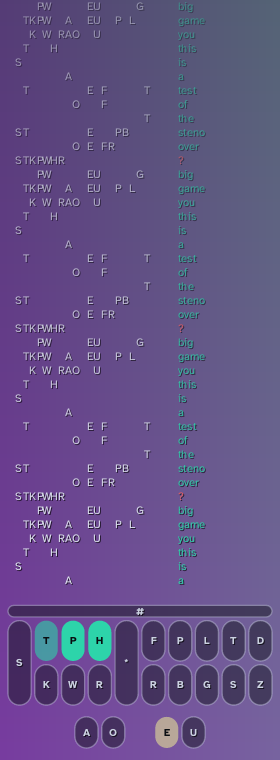
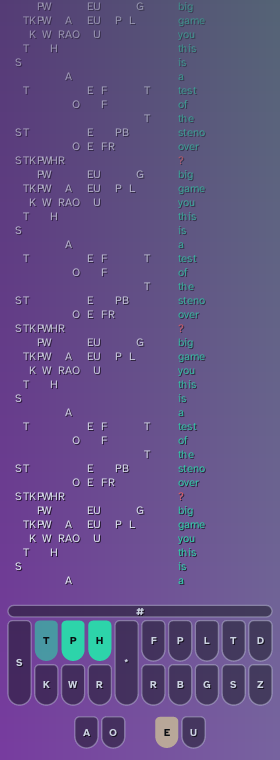
fix(overlay): pads are squarish on top, round at the bottom
Pad shapes take separate top and bottom radii: the top corners are softened
slightly (0.2x width), the bottom is fully round. The # bar stays a pill.

diff --git a/src/overlay/render.rs b/src/overlay/render.rs
@@ -23,6 +23,10 @@ const LABEL_PX: f32 = 13.0;
 const TAPE_PX: f32 = 14.0;
 /// Outline of an unlit key, logical px
 const OUTLINE: f32 = 1.4;
+/// Radius of a pad's top corners relative to its width. The bottom is fully round.
+const PAD_TOP_ROUND: f32 = 0.2;
+/// Slot of the `#` number bar
+const NUMBER_SLOT: usize = 22;
 /// Share of the tape width given to the steno columns; the translation gets the rest
 const PAPER_SHARE: f32 = 0.62;
 /// Oldest tape line's strength, so the tape fades out towards the top of the screen
@@ -116,11 +120,19 @@ impl Renderer {
             0
         };
 
-        // Pills: the radius is clamped to half the shorter side, so this is a full round end
+        // Steno pads: a squarish top with slightly softened corners, and a fully round
+        // bottom. The `#` bar is a plain pill. Radii are clamped to fit by `rounded_rect`.
         let key_shapes = keyboard.as_ref().map_or_else(Vec::new, |k| {
             k.keys
                 .iter()
-                .filter_map(|r| rounded_rect(*r, f32::MAX))
+                .enumerate()
+                .filter_map(|(slot, r)| {
+                    if slot == NUMBER_SLOT {
+                        rounded_rect(*r, f32::MAX, f32::MAX)
+                    } else {
+                        rounded_rect(*r, r.w * PAD_TOP_ROUND, f32::MAX)
+                    }
+                })
                 .collect()
         });
         let panel = (config.background > 0.0)
@@ -132,6 +144,7 @@ impl Renderer {
                         w: width,
                         h: height,
                     },
+                    0.0,
                     0.0,
                 )
             })
@@ -337,23 +350,26 @@ fn stroke(pixmap: &mut PixmapMut, path: &Path, color: [u8; 4], style: &Stroke) {
     pixmap.stroke_path(path, &paint(color), style, Transform::identity(), None);
 }
 
-/// A rectangle with circular corners (cubic approximation). A radius of half the shorter side
-/// or more makes a pill: straight sides with fully round ends.
-fn rounded_rect(r: Rect, radius: f32) -> Option<Path> {
+/// A rectangle whose top corners have radius `top_radius` and bottom corners `bottom_radius`
+/// (cubic approximation of quarter circles). Radii are clamped so they fit: half the width at
+/// most, and the two together within the height. A radius of half the width on both ends
+/// makes a pill.
+fn rounded_rect(r: Rect, top_radius: f32, bottom_radius: f32) -> Option<Path> {
     const K: f32 = 0.552_284_8; // control point distance for a quarter circle
-    let rad = radius.min(r.w / 2.0).min(r.h / 2.0);
-    let c = rad * (1.0 - K);
+    let rt = top_radius.min(r.w / 2.0).min(r.h / 2.0);
+    let rb = bottom_radius.min(r.w / 2.0).min(r.h - rt);
+    let (ct, cb) = (rt * (1.0 - K), rb * (1.0 - K));
     let (left, top, right, bottom) = (r.x, r.y, r.x + r.w, r.y + r.h);
     let mut pb = PathBuilder::new();
-    pb.move_to(left + rad, top);
-    pb.line_to(right - rad, top);
-    pb.cubic_to(right - c, top, right, top + c, right, top + rad);
-    pb.line_to(right, bottom - rad);
-    pb.cubic_to(right, bottom - c, right - c, bottom, right - rad, bottom);
-    pb.line_to(left + rad, bottom);
-    pb.cubic_to(left + c, bottom, left, bottom - c, left, bottom - rad);
-    pb.line_to(left, top + rad);
-    pb.cubic_to(left, top + c, left + c, top, left + rad, top);
+    pb.move_to(left + rt, top);
+    pb.line_to(right - rt, top);
+    pb.cubic_to(right - ct, top, right, top + ct, right, top + rt);
+    pb.line_to(right, bottom - rb);
+    pb.cubic_to(right, bottom - cb, right - cb, bottom, right - rb, bottom);
+    pb.line_to(left + rb, bottom);
+    pb.cubic_to(left + cb, bottom, left, bottom - cb, left, bottom - rb);
+    pb.line_to(left, top + rt);
+    pb.cubic_to(left, top + ct, left + ct, top, left + rt, top);
     pb.close();
     pb.finish()
 }
@@ -534,21 +550,37 @@ mod tests {
     }
 
     #[test]
-    fn keys_are_pills_with_round_ends() {
+    fn keys_are_pads_square_on_top_and_round_at_the_bottom() {
         let mut renderer = Renderer::new(&OverlayConfig::default(), 1, 900).unwrap();
         let (w, h) = renderer.size();
         let mut pixmap = Pixmap::new(w, h).unwrap();
         renderer.draw(&OverlaySnapshot::default(), &mut pixmap.as_mut());
-        // The corner of T-'s bounding box is empty (round end); its middle is not
         let t = renderer.keyboard.as_ref().unwrap().keys[1];
-        let corner = pixmap
-            .pixel((t.x + 1.0) as u32, (t.y + 1.0) as u32)
-            .unwrap();
-        let middle = pixmap
-            .pixel((t.x + 2.0) as u32, (t.y + t.h / 2.0) as u32)
-            .unwrap();
-        assert_eq!(corner.alpha(), 0, "square corner");
-        assert!(middle.alpha() > 0, "body of the pad");
+        let alpha_at = |dx: f32, y: f32| pixmap.pixel((t.x + dx) as u32, y as u32).unwrap().alpha();
+
+        // Just inside each corner of T-'s bounding box: the top is nearly square, so that
+        // spot is part of the pad; the bottom is fully round, so it is empty
+        let top_corner = alpha_at(2.0, t.y + 2.0);
+        let bottom_corner = alpha_at(2.0, t.bottom() - 3.0);
+        assert!(top_corner > 0, "top corner is only slightly rounded");
+        assert_eq!(bottom_corner, 0, "bottom is a round end");
+        assert!(alpha_at(2.0, t.y + t.h / 2.0) > 0, "body of the pad");
+    }
+
+    #[test]
+    fn the_pad_path_has_the_radii_asked_for() {
+        let r = Rect {
+            x: 0.0,
+            y: 0.0,
+            w: 20.0,
+            h: 40.0,
+        };
+        // A pill: both ends are half the width
+        let pill = rounded_rect(r, f32::MAX, f32::MAX).unwrap();
+        assert_eq!(pill.bounds().width(), 20.0);
+        // Radii that don't fit are clamped instead of producing a bad path
+        assert!(rounded_rect(r, 500.0, 500.0).is_some());
+        assert!(rounded_rect(r, 3.0, f32::MAX).is_some());
     }
 
     /// Writes a sample frame as a PPM over a backdrop, to look at the design:

diff --git a/docs/overlay-plan.md b/docs/overlay-plan.md
@@ -144,8 +144,9 @@ x-position and its letter is centred in that column. Steno lines still align.
 - No background by default (`background: 0.0`): only the keys and the text are drawn, so
   everything must read over any wallpaper. Text gets a soft drop shadow (light text only;
   dark text on a lit key doesn't, since the shadow would smudge it).
-- Keys are steno pads: tall pills (1.75× as tall as wide) with fully round ends. `S-` and
-  `*` are double height, `#` is a thin pill across the top, thumbs sit below. Unlit keys
+- Keys are steno pads, 1.75× as tall as wide: a squarish top with slightly softened corners
+  (radius 0.2× the width) and a fully round bottom. `S-` and `*` are double height, `#` is a
+  thin pill across the top, thumbs sit below. Unlit keys
   are a faint dark glass fill with a light outline. Lit keys use the stroke accent (teal for
   consonants, pale yellow for vowels). Keys in `chord` but no longer in `held` are dimmer,
   so you see the stroke building.

diff --git a/README.md b/README.md
@@ -557,7 +557,7 @@ Add a steno layer. Its name doesn't matter; `kind` is what makes it a steno laye
 
 `keymux overlay` shows the steno keyboard and a tape down the right edge of the screen while a
 steno layer is on, and goes away when you leave it. The tape runs the full screen height with
-the keyboard at the bottom. Keys are steno pads (tall pills) that light up as you press them
+the keyboard at the bottom. Keys are steno pads (round at the bottom, nearly square at the top) that light up as you press them
 (keys you've let go of but are still part of the stroke are dimmer), and each finished stroke
 lands on the tape with what it typed. There is no background by default, only the keys and
 text, and it never takes clicks or focus. It costs next to nothing: it only redraws when a
